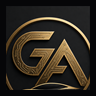
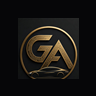
Fix zoomed crest: ship padded full circular emblem everywhere.
logo-icon-132 was a tight GA letter crop that clipped the gold ring; regenerate logo-crest.png with full ring+car+padding and cache-bust nav/favicon/email to v=10.

diff --git a/scripts/build-brand-assets.ts b/scripts/build-brand-assets.ts
@@ -39,30 +39,47 @@ function runPowerShell(script: string) {
   });
 }
 
-/** Square GA emblem — calibrated against the 1248×1248 master logo.png */
+/** Square GA emblem — calibrated so the FULL gold ring + car are visible (not a letter zoom) */
 async function cropEmblemFromMaster() {
   if (!existsSync(masterPath)) {
     console.warn("Skip emblem crop — logo.png master not found");
     return;
   }
+  const crestPath = join(publicDir, "logo-crest.png");
   const ps = `
 Add-Type -AssemblyName System.Drawing
 $src = "${masterPath.replace(/\\/g, "\\\\")}"
 $out = "${emblemPath.replace(/\\/g, "\\\\")}"
+$crest = "${crestPath.replace(/\\/g, "\\\\")}"
 $img = [System.Drawing.Image]::FromFile($src)
 $w = $img.Width; $h = $img.Height
-$size = [int]([Math]::Min($w, $h) * 0.545)
+# Wider crop + destination padding — avoids the logo-icon-132 "zoomed letters" bug
+$size = [int]([Math]::Min($w, $h) * 0.64)
 $x = [int](($w - $size) / 2)
-$y = [int]($h * 0.024)
-$bmp = New-Object System.Drawing.Bitmap $size, $size
+$y = [int]($h * 0.01)
+$pad = 0.18
+$outPx = 1024
+$inner = [int]($outPx * (1 - 2 * $pad))
+$offset = [int](($outPx - $inner) / 2)
+$bmp = New-Object System.Drawing.Bitmap $outPx, $outPx
 $g = [System.Drawing.Graphics]::FromImage($bmp)
+$g.Clear([System.Drawing.Color]::FromArgb(6, 6, 8))
 $g.InterpolationMode = [System.Drawing.Drawing2D.InterpolationMode]::HighQualityBicubic
 $g.SmoothingMode = [System.Drawing.Drawing2D.SmoothingMode]::HighQuality
 $g.PixelOffsetMode = [System.Drawing.Drawing2D.PixelOffsetMode]::HighQuality
-$g.DrawImage($img, (New-Object System.Drawing.Rectangle 0, 0, $size, $size), (New-Object System.Drawing.Rectangle $x, $y, $size, $size), [System.Drawing.GraphicsUnit]::Pixel)
+$g.DrawImage($img, (New-Object System.Drawing.Rectangle $offset, $offset, $inner, $inner), (New-Object System.Drawing.Rectangle $x, $y, $size, $size), [System.Drawing.GraphicsUnit]::Pixel)
 $bmp.Save($out, [System.Drawing.Imaging.ImageFormat]::Png)
-$g.Dispose(); $bmp.Dispose(); $img.Dispose()
-Write-Output "grayarx-logo-emblem.png"
+$bmp.Save($crest, [System.Drawing.Imaging.ImageFormat]::Png)
+$icon132 = New-Object System.Drawing.Bitmap 132, 132
+$g132 = [System.Drawing.Graphics]::FromImage($icon132)
+$g132.Clear([System.Drawing.Color]::FromArgb(6, 6, 8))
+$g132.InterpolationMode = [System.Drawing.Drawing2D.InterpolationMode]::HighQualityBicubic
+$inner132 = [int](132 * (1 - 2 * $pad))
+$off132 = [int]((132 - $inner132) / 2)
+$g132.DrawImage($bmp, $off132, $off132, $inner132, $inner132)
+$icon132.Save("${join(publicDir, "logo-icon-132.png").replace(/\\/g, "\\\\")}", [System.Drawing.Imaging.ImageFormat]::Png)
+$g132.Dispose(); $icon132.Dispose(); $g.Dispose(); $bmp.Dispose(); $img.Dispose()
+Write-Output "grayarx-logo-emblem.png + logo-crest.png"
 `;
   runPowerShell(ps);
   copyFileSync(emblemPath, iconSourcePath);
@@ -200,7 +217,7 @@ async function main() {
   console.log("\nDone.");
   console.log("- grayarx-logo-nav.png = header/footer wordmark");
   console.log("- grayarx-logo-full.png = auth + onboarding");
-  console.log("- grayarx-logo-emblem.png = favicons + compact slots");
+  console.log("- logo-crest.png / grayarx-logo-emblem.png = favicons + nav crest (padded full ring)");
 }
 
 main().catch((e) => {

diff --git a/server/pilotEmailCampaign.test.ts b/server/pilotEmailCampaign.test.ts
@@ -15,15 +15,16 @@ import { previewPilotCampaign } from "./_core/pilotEmailCampaignService";
 describe("pilot email campaign", () => {
   it("logo URL is the circular GA crest PNG", () => {
     const url = grayArxLogoUrl();
-    expect(url).toContain("/logo-icon-132.png");
+    expect(url).toContain("/logo-crest.png");
+    expect(url).toContain("v=10");
     expect(url).not.toContain(".svg");
-    expect(url).not.toContain("grayarx-logo-emblem");
+    expect(url).not.toContain("logo-icon-132");
   });
 
   it("email header matches site layout (icon + wordmark)", () => {
     const header = grayArxEmailHeader();
     expect(header).toContain('role="presentation"');
-    expect(header).toContain("logo-icon-132.png");
+    expect(header).toContain("logo-crest.png");
     expect(header).not.toContain("cid:grayarx-logo-icon");
     expect(header).toContain("GrayArx");
     expect(header).toContain("AI Platform");
@@ -55,7 +56,7 @@ describe("pilot email campaign", () => {
       segment: sample.segment,
     });
     expect(html).toContain("Jubilee Motors");
-    expect(html).toContain("logo-icon-132.png");
+    expect(html).toContain("logo-crest.png");
     expect(html).not.toContain("cid:grayarx-logo-icon");
     expect(html).toContain("Apply for pilot access");
     expect(html).not.toContain("Segment:");

diff --git a/client/index.html b/client/index.html
@@ -2,12 +2,12 @@
 <html lang="en" class="dark">
   <head>
     <meta charset="UTF-8" />
-    <link rel="icon" type="image/svg+xml" href="/logo.svg?v=7" />
-    <link rel="icon" type="image/png" sizes="16x16" href="/favicon-16.png?v=7" />
-    <link rel="icon" href="/favicon.ico?v=7" sizes="any" />
-    <link rel="icon" type="image/png" sizes="32x32" href="/favicon-32.png?v=7" />
-    <link rel="icon" type="image/png" sizes="192x192" href="/icon-192x192.png?v=7" />
-    <link rel="apple-touch-icon" sizes="192x192" href="/icon-192x192.png?v=7" />
+    <link rel="icon" type="image/svg+xml" href="/logo.svg?v=10" />
+    <link rel="icon" type="image/png" sizes="16x16" href="/favicon-16.png?v=10" />
+    <link rel="icon" href="/favicon.ico?v=10" sizes="any" />
+    <link rel="icon" type="image/png" sizes="32x32" href="/favicon-32.png?v=10" />
+    <link rel="icon" type="image/png" sizes="192x192" href="/icon-192x192.png?v=10" />
+    <link rel="apple-touch-icon" sizes="192x192" href="/icon-192x192.png?v=10" />
     <meta name="viewport" content="width=device-width, initial-scale=1.0" />
     <meta name="theme-color" content="#060608" />
     <meta name="description" content="GrayArx — deal scores, trade-in intelligence, and finance for South African dealerships. Built to outsell classifieds." />

diff --git a/client/src/pages/AdminEmailPreview.tsx b/client/src/pages/AdminEmailPreview.tsx
@@ -8,7 +8,7 @@ import { Tabs, TabsContent, TabsList, TabsTrigger } from "@/components/ui/tabs";
 import { trpc } from "@/lib/trpc";
 
 /** Circular GA crest only — never full lockup (looks zoomed at small sizes). */
-const LOGO_URL = "https://www.grayarx.com/logo-icon-132.png?v=9";
+const LOGO_URL = "https://www.grayarx.com/logo-crest.png?v=10";
 
 const emailTemplates = {
   welcome: {
@@ -263,7 +263,7 @@ export default function AdminEmailPreview() {
         </CardHeader>
         <CardContent className="text-sm text-muted-foreground">
           Welcome / Follow-up / Pilot use the circular GA crest
-          (`logo-icon-132.png` at 44–56px) over HTTPS — not the full lockup and
+          (`logo-crest.png` at 44–56px) over HTTPS — not the full lockup and
           not cid: attachments (those break in browser preview).
         </CardContent>
       </Card>

diff --git a/server/_core/resendEmailService.ts b/server/_core/resendEmailService.ts
@@ -37,8 +37,8 @@ function loadInlineLogoAttachment():
   if (!shouldAttachInlineEmailLogo()) return null;
 
   const candidates = [
-    join(process.cwd(), "client/public/logo-icon-132.png"),
-    join(process.cwd(), "dist/public/logo-icon-132.png"),
+    join(process.cwd(), "client/public/logo-crest.png"),
+    join(process.cwd(), "dist/public/logo-crest.png"),
     join(process.cwd(), "client/public/logo-icon.png"),
     join(process.cwd(), "dist/public/logo-icon.png"),
   ];
@@ -47,7 +47,7 @@ function loadInlineLogoAttachment():
     try {
       const content = readFileSync(path).toString("base64");
       return {
-        filename: "logo-icon.png",
+        filename: "logo-crest.png",
         content,
         content_id: GRAYARX_EMAIL_LOGO_CID,
         content_type: "image/png",

diff --git a/server/_core/gmailPilotSender.ts b/server/_core/gmailPilotSender.ts
@@ -39,12 +39,12 @@ function pilotTransporter() {
 
 function logoAttachment() {
   if (!shouldAttachInlineEmailLogo()) return undefined;
-  const icon = join(process.cwd(), "client/public/logo-icon-132.png");
+  const icon = join(process.cwd(), "client/public/logo-crest.png");
   const fallback = join(process.cwd(), "client/public/logo-icon.png");
   const path = existsSync(icon) ? icon : fallback;
   if (!existsSync(path)) return undefined;
   return {
-    filename: "logo-icon-132.png",
+    filename: "logo-crest.png",
     path,
     cid: GRAYARX_EMAIL_LOGO_CID,
     contentType: "image/png",

diff --git a/client/src/components/Logo.tsx b/client/src/components/Logo.tsx
@@ -11,9 +11,10 @@ interface LogoProps {
   variant?: "icon" | "nav" | "full";
 }
 
-export const LOGO_ICON_URL = "/logo-icon-132.png?v=9";
-export const LOGO_NAV_URL = "/logo-icon-132.png?v=9";
-export const LOGO_FULL_URL = "/grayarx-logo-full.png?v=9";
+/** Full circular crest (gold ring + GA + car) — not a tight letter crop */
+export const LOGO_ICON_URL = "/logo-crest.png?v=10";
+export const LOGO_NAV_URL = "/logo-crest.png?v=10";
+export const LOGO_FULL_URL = "/grayarx-logo-full.png?v=10";
 /** Legacy alias used by LogoEmblem and emailBranding */
 export const LOGO_URL = LOGO_ICON_URL;
 

diff --git a/client/public/service-worker.js b/client/public/service-worker.js
@@ -1,5 +1,5 @@
-const CACHE_NAME = "grayarx-v3";
-const RUNTIME_CACHE = "grayarx-runtime-v3";
+const CACHE_NAME = "grayarx-v10";
+const RUNTIME_CACHE = "grayarx-runtime-v10";
 const STATIC_ASSETS = [
   "/manifest.json",
 ];
@@ -12,7 +12,10 @@ const BRAND_ICON_PATHS = new Set([
   "/icon-96x96.png",
   "/icon-192x192.png",
   "/icon-512x512.png",
+  "/logo-crest.png",
   "/logo-icon.png",
+  "/logo-icon-132.png",
+  "/grayarx-logo-emblem.png",
   "/logo.svg",
 ]);
 

diff --git a/shared/emailBranding.ts b/shared/emailBranding.ts
@@ -31,7 +31,7 @@ export function grayArxAppUrl(): string {
  * Full lockup at 44px looks “zoomed in” / unreadable next to the HTML wordmark.
  */
 export function grayArxLogoIconUrl(): string {
-  return `${grayArxAppUrl()}/logo-icon-132.png?v=9`;
+  return `${grayArxAppUrl()}/logo-crest.png?v=10`;
 }
 
 export const GRAYARX_EMAIL_LOGO_CID = "grayarx-logo-icon";

diff --git a/shared/invoiceBrand.ts b/shared/invoiceBrand.ts
@@ -12,8 +12,8 @@ export const INVOICE_BRAND = {
   rule: "#E8E0D0",
   paper: "#FFFFFF",
   paperTint: "#FAF8F4",
-  logoIconPath: "/logo-icon-132.png?v=9",
-  logoFullPath: "/grayarx-logo-full.png?v=9",
+  logoIconPath: "/logo-crest.png?v=10",
+  logoFullPath: "/grayarx-logo-full.png?v=10",
   accentFallback: "#C9A24A",
 } as const;
 
